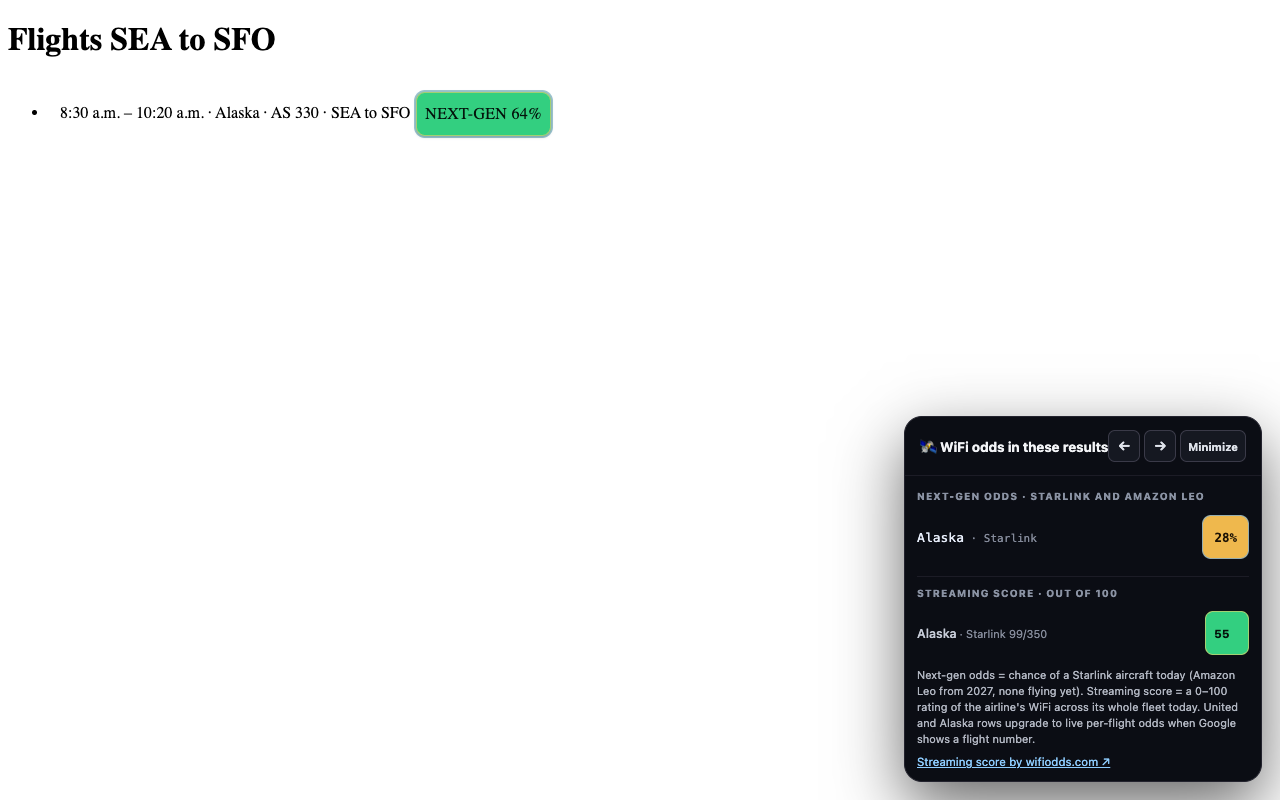
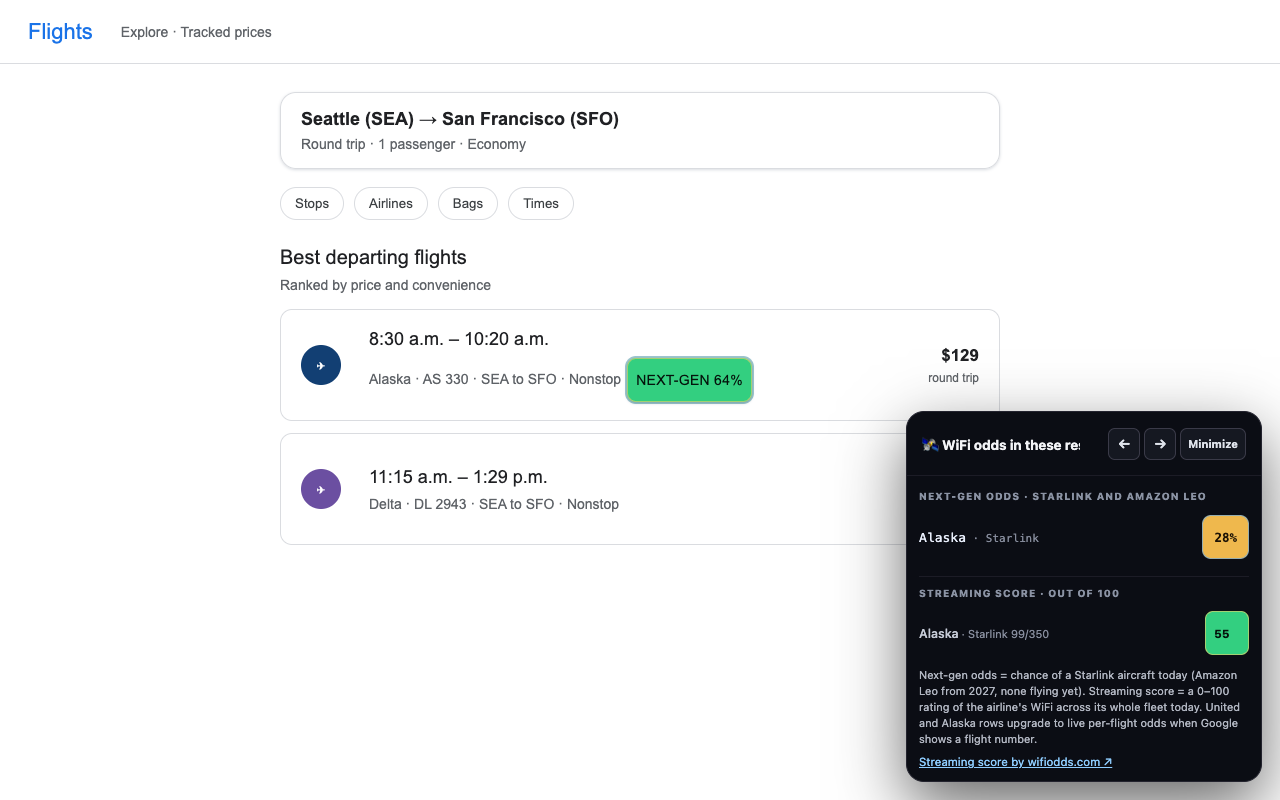
store: freeze reviewed 3.1 screenshots
Record the passing fixture-capture provenance and replace the empty Google Flights frame with recognizable search results.

Driver: codex-approved-release-20260813

diff --git a/STORE.md b/STORE.md
@@ -6,12 +6,14 @@ dashboard source of truth.
 
 ## Current status
 
-- Source: final candidate preparation. It has no reviewed Store ZIP yet.
+- Source: final candidate preparation after the Navan time and Store-verifier repairs. It has no
+  reviewed Store ZIP yet.
 - Site model: pinned to Claude-reviewed, live site commit
   `cae8be119b83abff12f57877c1cf344b03b8b6b8` and model blob
   `8b04acd3a7c88f7dea86d5367a5de1ffc125222e`.
-- Screenshots: four 1280×800 replacement captures were generated from committed source `4a7d6f0`
-  after the full browser gate passed. The release bundle carries their exact provenance block.
+- Screenshots: four 1280×800 fixture captures were frozen from committed source `9a2f1fe` only
+  after the full browser gate passed. The Google Flights image now shows a recognizable search and
+  results page rather than an empty fixture. The release bundle carries the exact provenance block.
 - Privacy and permissions: unchanged from the published 3.0.2 listing. The v3.1.0 package adds no
   host, permission, stored field, collection, transmission, or retention behavior.
 
